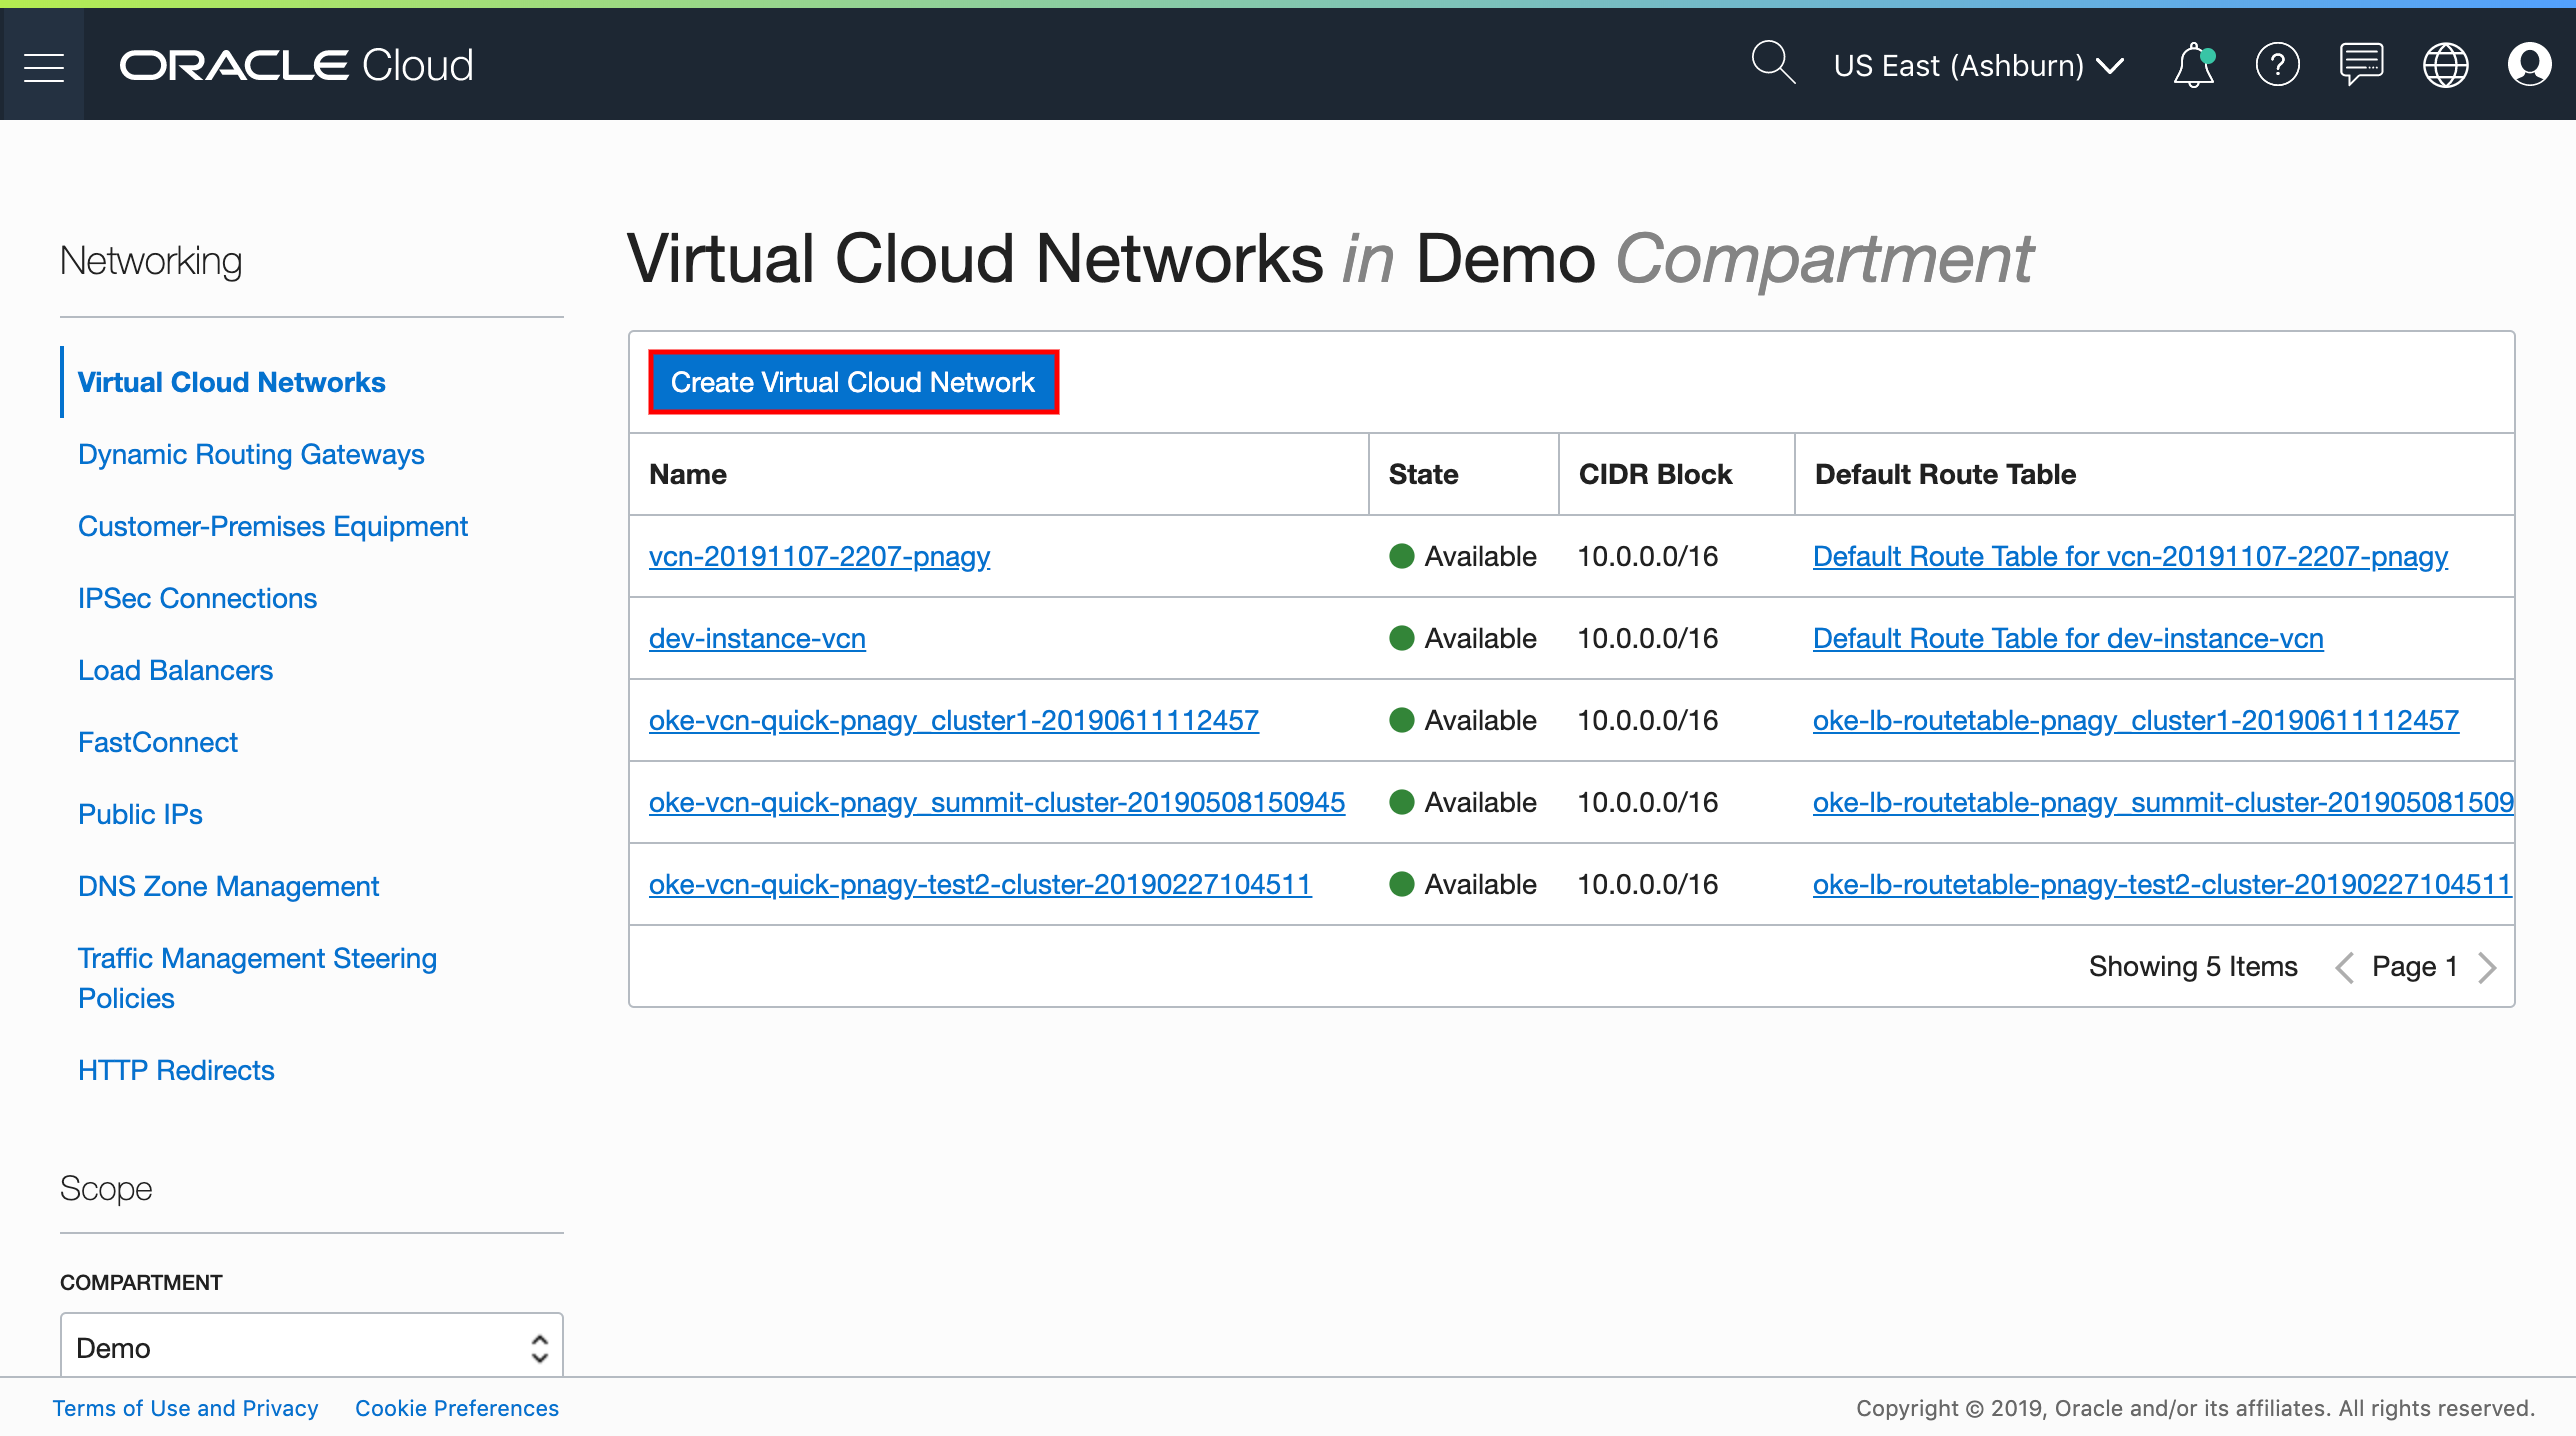
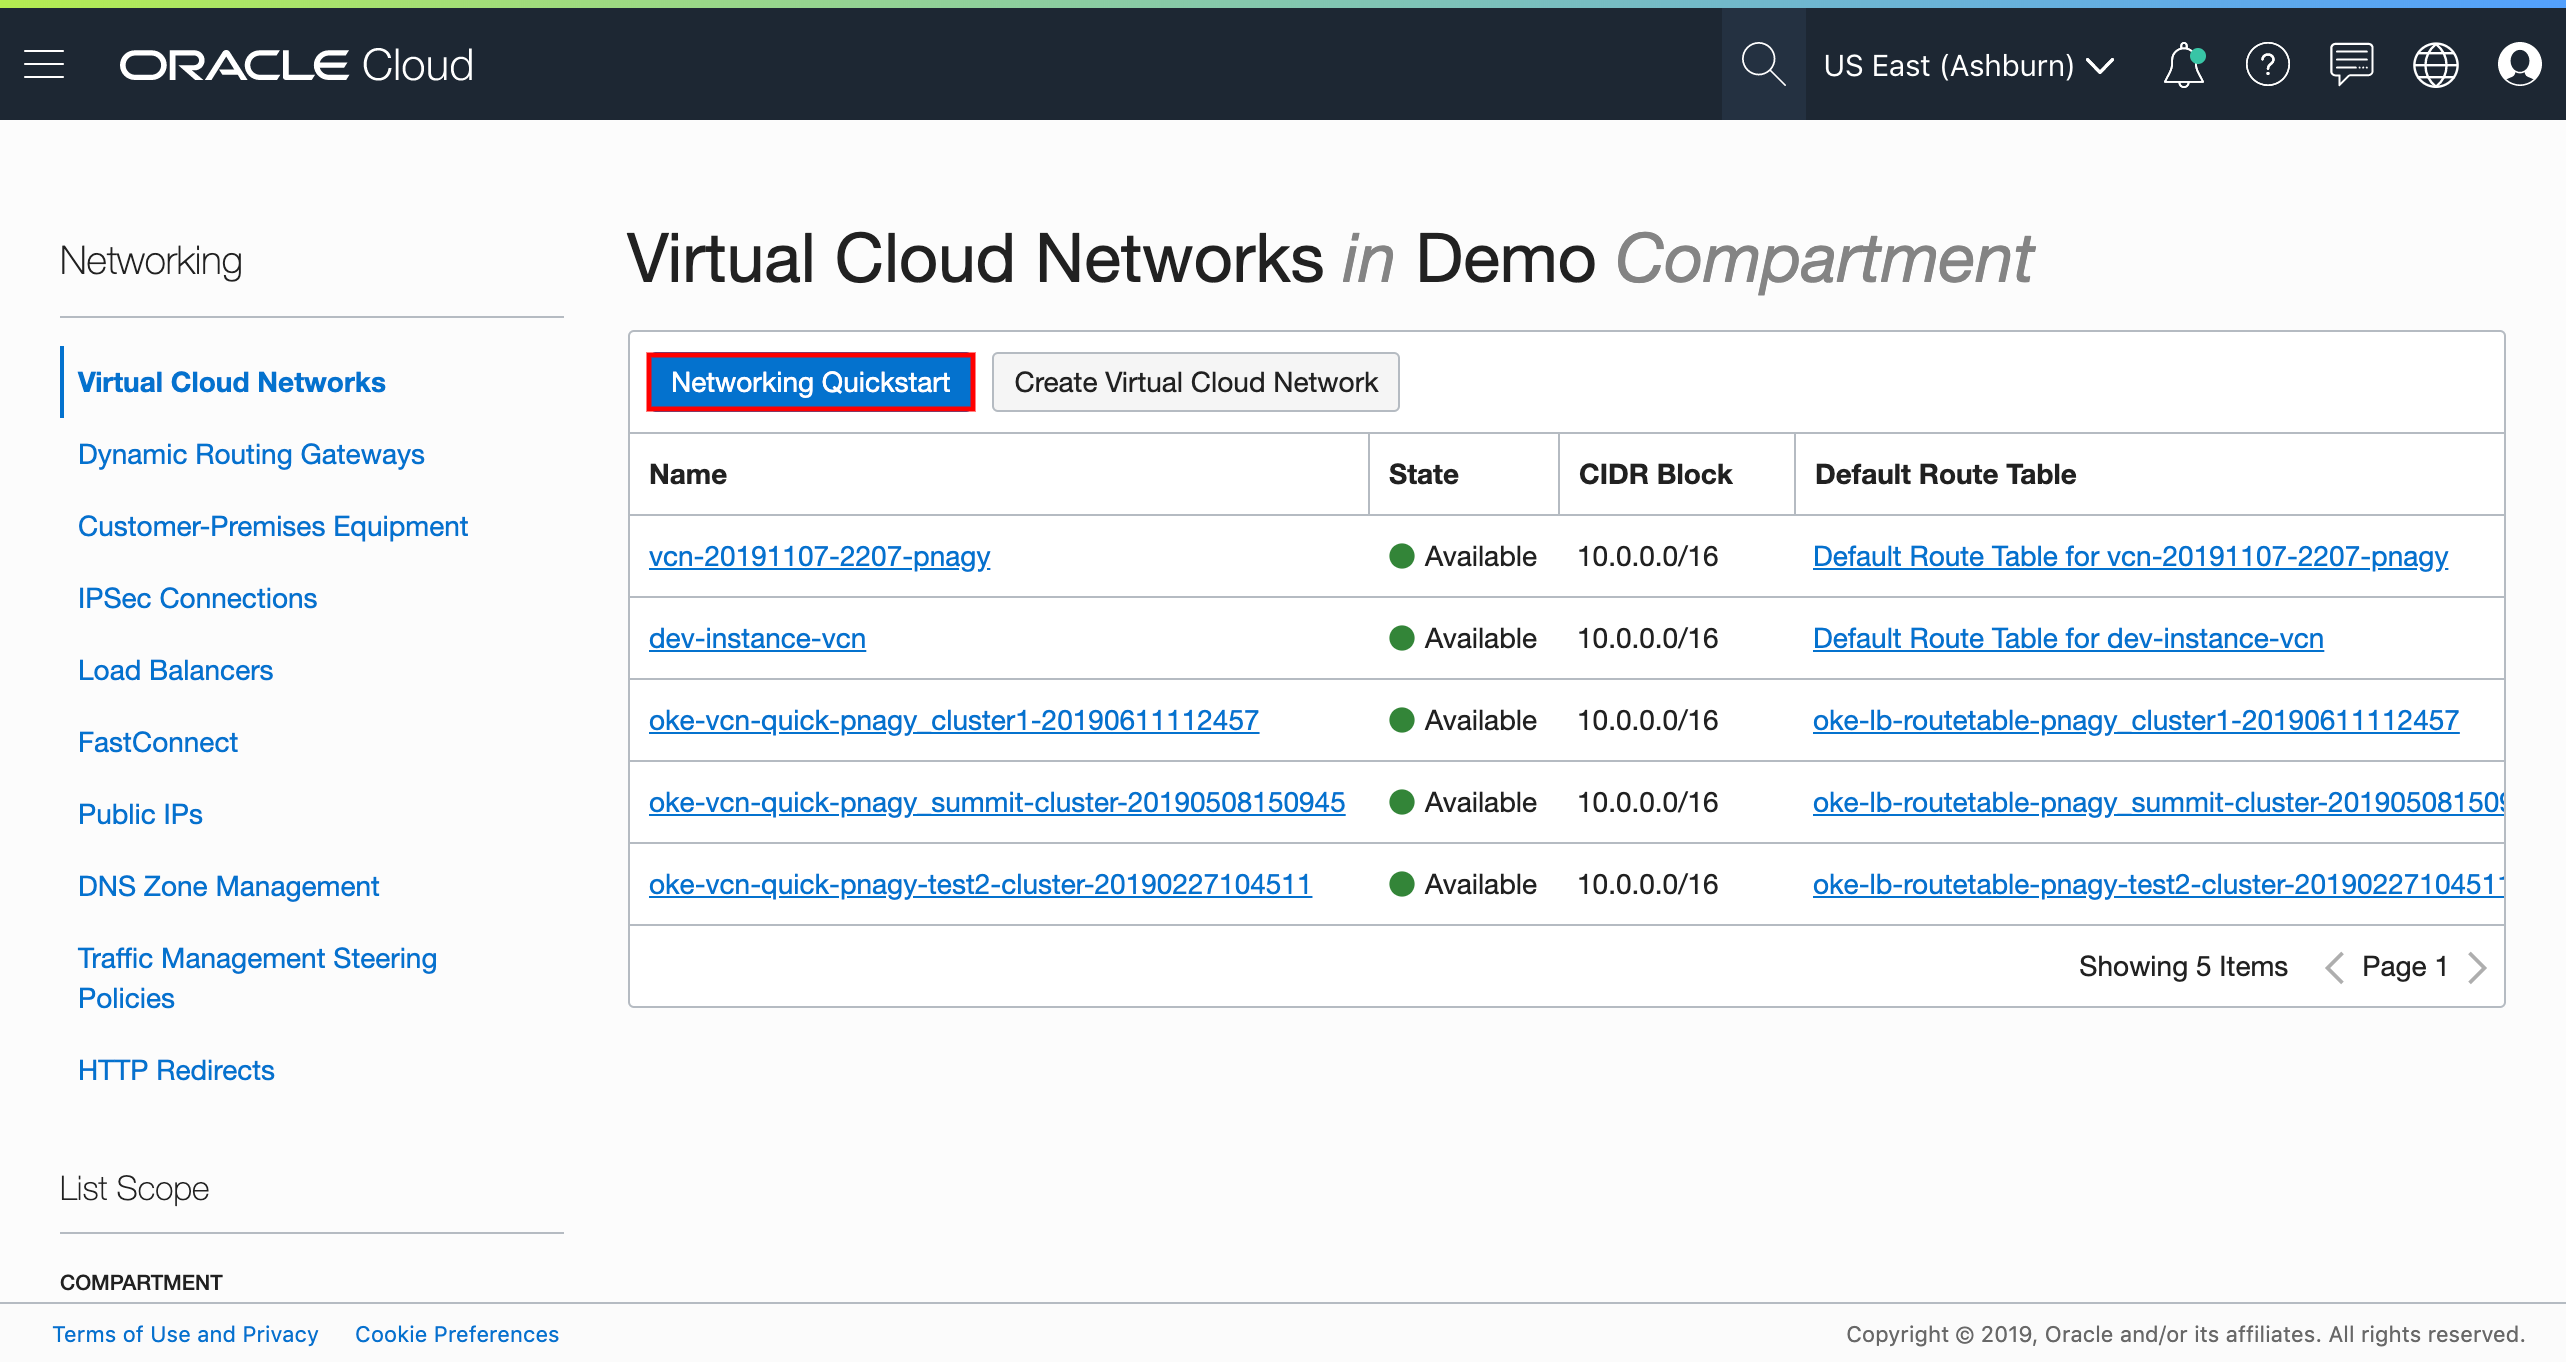
VCN quick start update

diff --git a/tutorials/setup.dev.compute.instance.md b/tutorials/setup.dev.compute.instance.md
@@ -39,30 +39,37 @@ Click the hamburger menu icon at the top left corner and select **Networking** o
 
 ![alt text](images/compute.instance/005.networking.png)
 
-On the Virtual Cloud Networks page click **Create Virtual Cloud Network**.
+On the Virtual Cloud Networks page click **Networking Quickstart**.
 
 ![alt text](images/compute.instance/006.create.vcn.png)
 
-Specify the following configuration details:
+In the Networking Quickstart dialog, select *VCN with Internet Connectivity*. Then click **Start Workflow**.
 
-- **Name**: Enter a name for your cloud network, what helps you later to identify this resource. In this example: *vcn-20191129-dev-pnagy*
-- **Create In Compartment**: By default, this field displays your current compartment.
-- Select **CREATE VIRTUAL CLOUD NETWORK PLUS RELATED RESOURCES**: By selecting this option, you will be creating a VCN with only public subnets.
-- Accept the defaults for other fields.
+![alt text](images/compute.instance/006.1.networking.quickstart.png)
 
-Scroll to the bottom of the dialog and click **Create Virtual Cloud Network**.
-![alt text](images/compute.instance/007.1.vcn.details.png)
-![alt text](images/compute.instance/007.2.vcn.details.png)
-![alt text](images/compute.instance/007.3.vcn.details.png)
+In the create page specify the following configuration details:
+- **VCN NAME**: Enter a name for your cloud network, what helps you later to identify this resource. In this example: *vcn-20191129-dev-pnagy*
+- **COMPARTMENT**: By default, this field displays your current compartment.
+- **VCN CIDR BLOCK**: 10.0.0.0/16
+- **PUBLIC SUBNET CIDR BLOCK**: 10.0.0.0/24
+- **PRIVATE SUBNET CIDR BLOCK**: 10.0.1.0/24
+- **USE DNS HOSTNAMES IN THIS VCN**: Leave the selected -default- *USE DNS HOSTNAMES IN THIS VCN* .
 
-A confirmation page with the details of the cloud network is diplayed. The cloud network has the following resources and characteristics:
+Click **Next**.
 
-- CIDR block range of 10.0.0.0/16.
-- An Internet Gateway.
-- A route table with a default route rule to enable traffic to and from the Internet Gateway.
-- A default security list.
-- A public subnet in each Availability Domain.
-- The VCN will automatically use the Internet and VCN Resolver for DNS.
+![alt text](images/compute.instance/006.2.networking.details.png)
+![alt text](images/compute.instance/006.3.networking.details.png)
+
+You can review the configuration of the VCN, subnets, security lists and route rules in the Review page. Click **Create** to start creating the VCN with resources.
+
+![alt text](images/compute.instance/006.4.networking.review.png)
+![alt text](images/compute.instance/006.5.networking.review.png)
+![alt text](images/compute.instance/006.6.networking.review.png)
+
+The VCN is created with all the components. Click on **View Virtual Cloud Network** to enter the VCN.
+
+![alt text](images/compute.instance/007.vcn.ready.png)
+
 
 #### Create Compute VM ####
 
@@ -94,7 +101,7 @@ Specify the remaining configuration details:
 - **Virtual cloud network compartment**: Leave your default.
 - **Virtual cloud network**: Most likely the default is the VCN what you created in the previous step. If not then select what you just created above.
 - **Subnet compartment**: Leave your default.
-- **Subnet**: By default it should be the subnet belongs to the selected availability domain (*AD 1*) above.
+- **Subnet**: Make sure the public(!) subnet e.g.:*Public Subnet-xxx (Regional)* is selected.
 - **Assign a public IP address**: select this option to allow external access (`ssh`) to your compute VM.
 - **Add SSH key**: select the previously created `~/.ssh/myDeveloperComputeKey.pub` or copy and paste its content to the *SSH key* field.
 

diff --git a/tutorials/setup.oke.md b/tutorials/setup.oke.md
@@ -83,7 +83,7 @@ The Create Virtual Cloud Network panel shows the network resources that will be 
 
 	- the name of the node pool (always pool1)
 	- the compartment in which the node pool will be created (always the same as the one in which the new network resources will reside)
-	- the version of Kubernetes that will run on each worker node in the node pool (always the same as the version specified for the master nodes) 
+	- the version of Kubernetes that will run on each worker node in the node pool (always the same as the version specified for the master nodes)
         - the image to use on each node in the node pool
 
 The Create Node Pool panel also contains some node pool properties that you can change.
